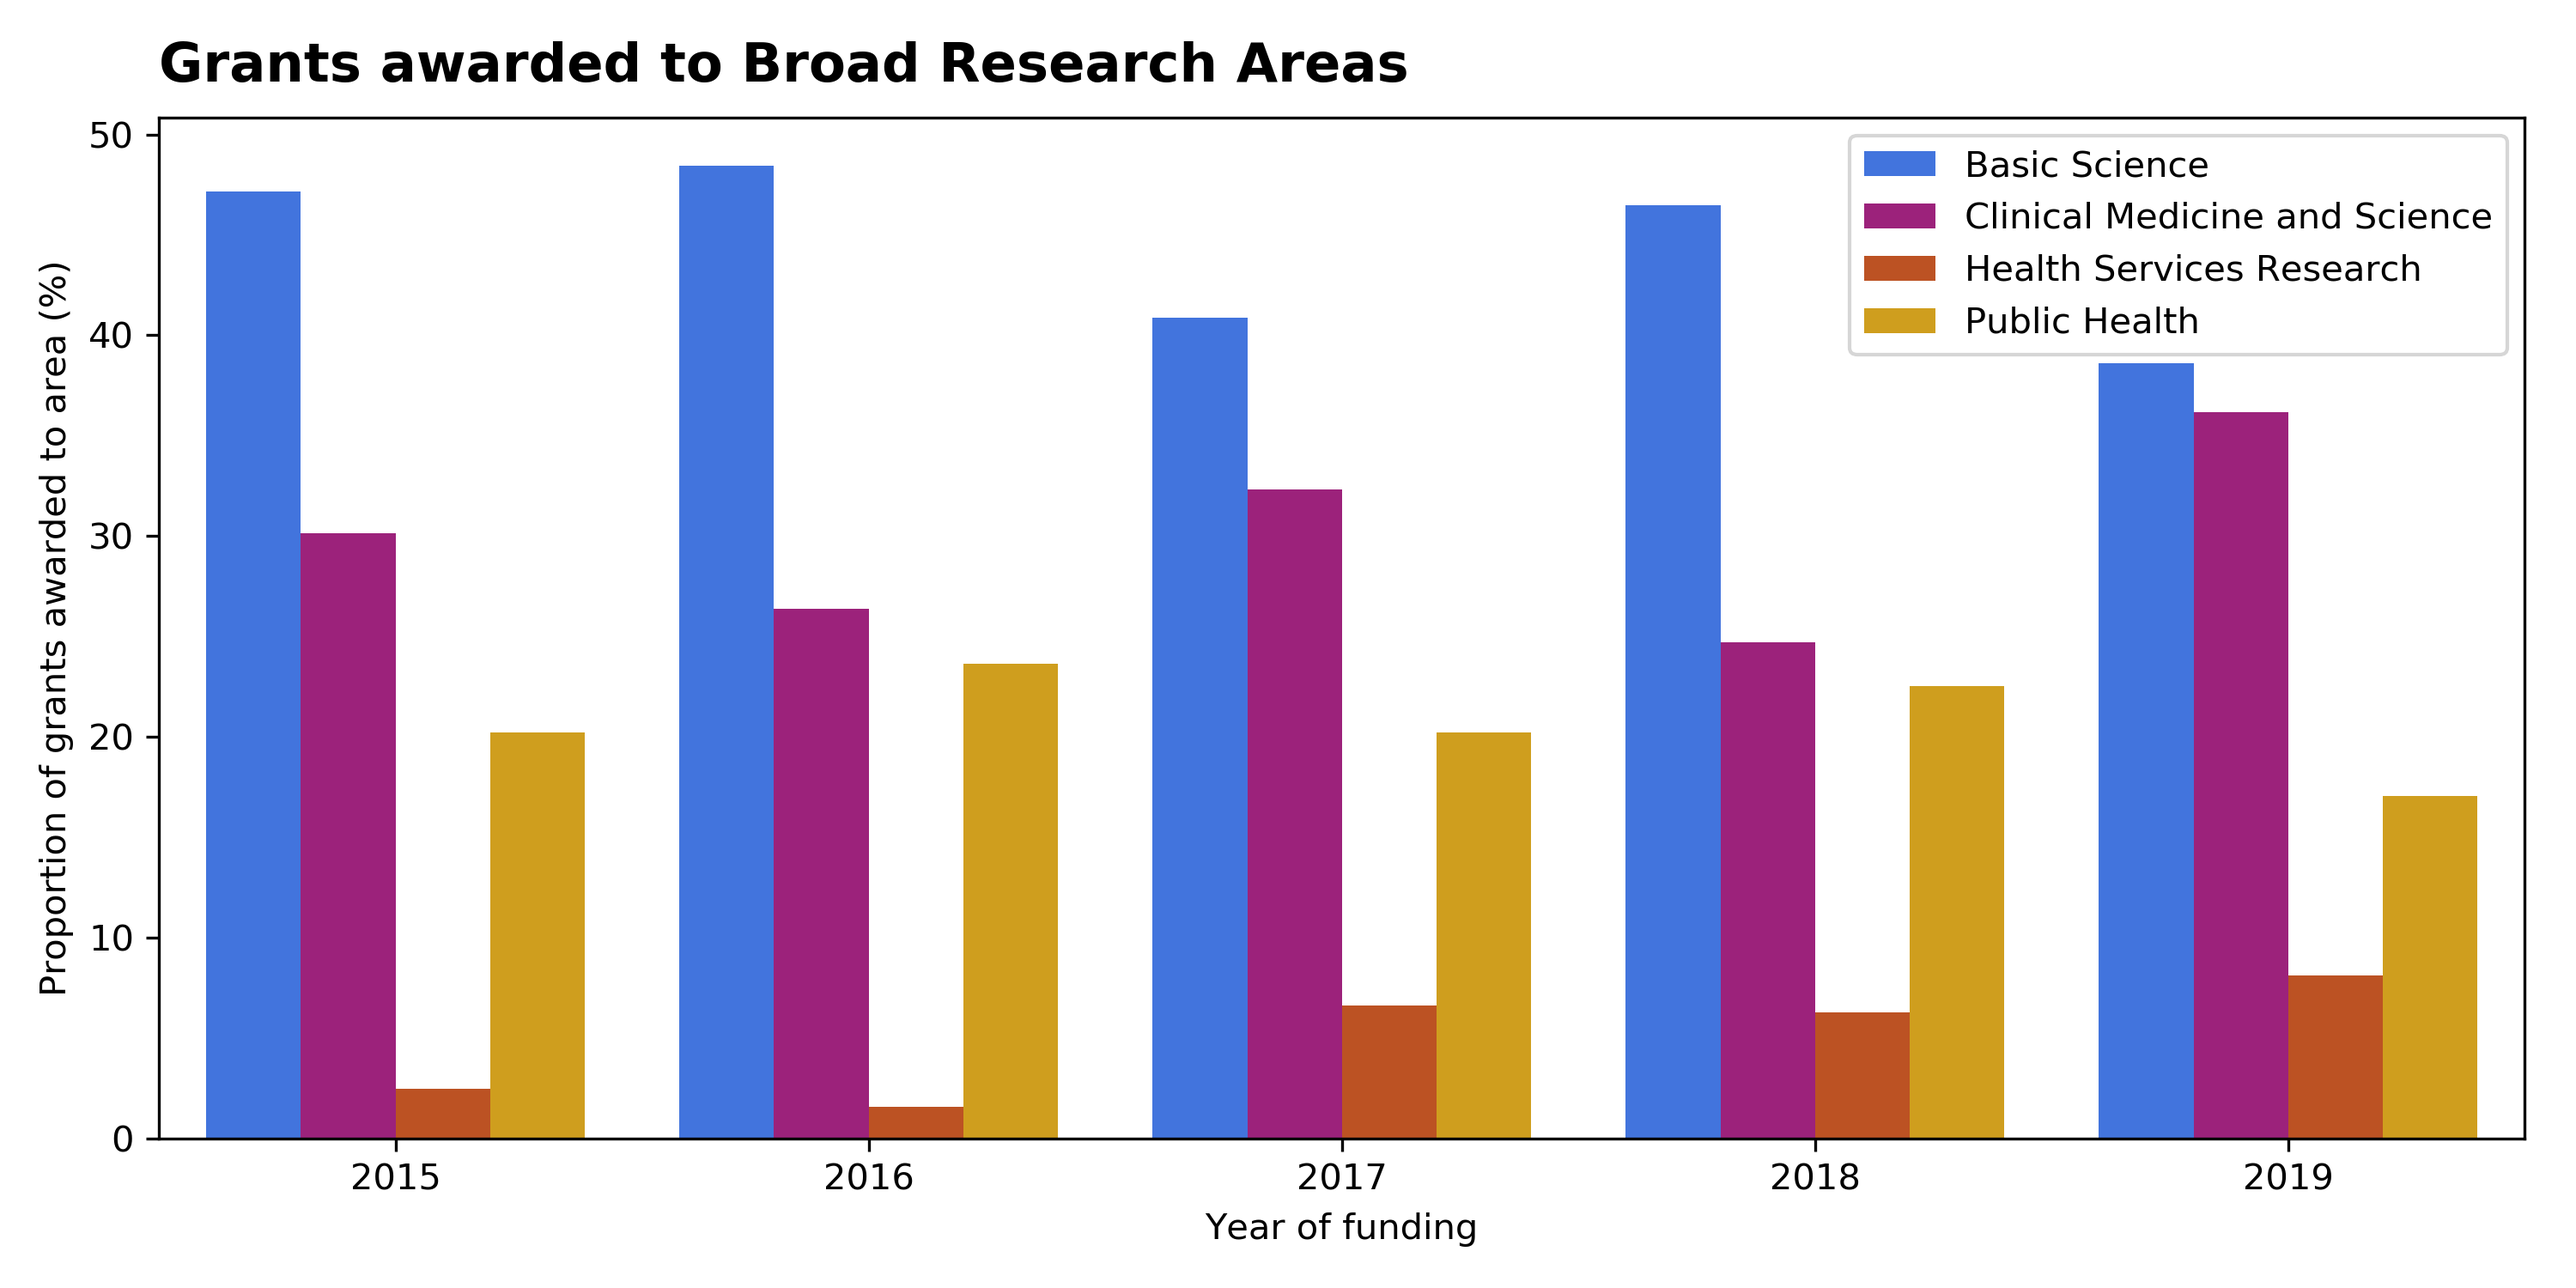
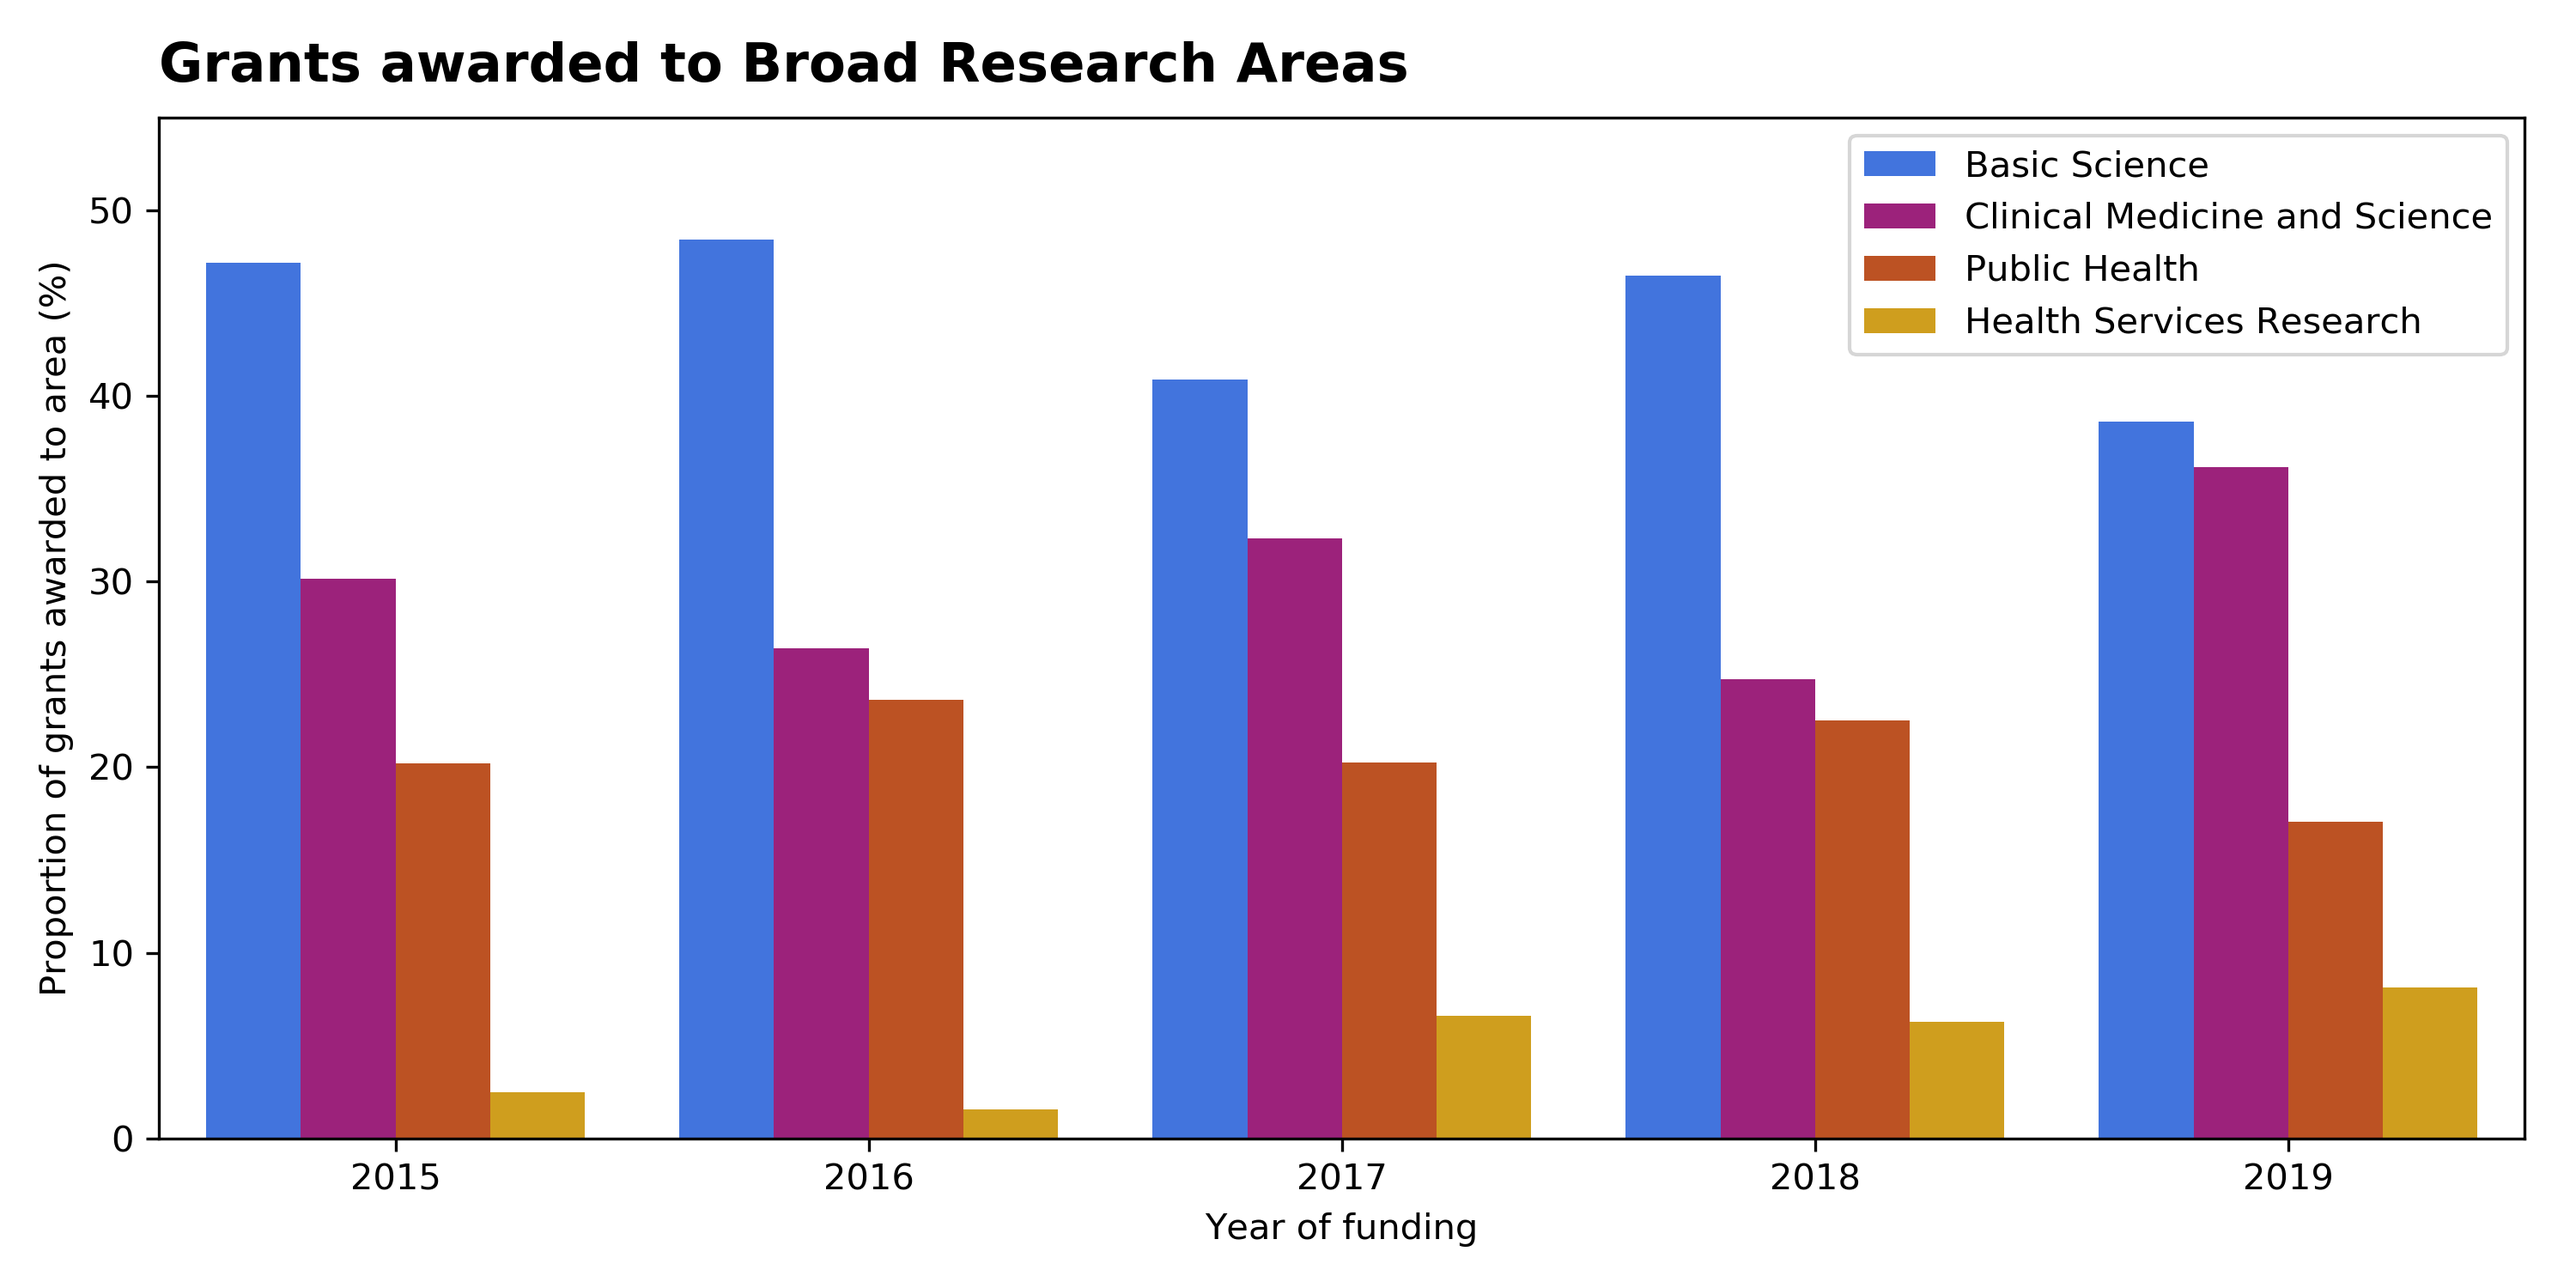
Fixed errors with 2015, 2016 hue

diff --git a/analysis_scripts/plot_research_area.py b/analysis_scripts/plot_research_area.py
@@ -41,6 +41,9 @@ for_plotting[numeric_cols] = for_plotting[numeric_cols].astype(float)
 year_dict = {2015: 0, 2016: 1, 2017: 2, 2018: 3, 2019: 4}
 for_plotting['Year_num'] = for_plotting['Year'].map(year_dict)
 
+hue_order = {'Basic Science':1, 'Clinical Medicine and Science':2, 'Public Health':3, 'Health Services Research':4}
+
+for_plotting['hue_order'] = for_plotting['Broad Research Area'].map(hue_order)
 
 for_plotting.groupby(['Year']).sum() # Check 100% accounted for each year
 
@@ -51,18 +54,19 @@ sns.palplot(col_pal)
 col_pal = ['#4b6aab', '#b75b9e', '#d8774c', '#f1c75b']
 col_pal = ['#286bf7', '#b00e84', '#d64809', '#edab00']
 
-order = ['Basic Science', 'Clinical Medicine and Science', 'Health Services Research', 'Public Health']
 
 fig, ax = plt.subplots(figsize=(10, 5))
 sns.barplot(x='Year_num',  y='proportion', data=for_plotting,
-            hue='Broad Research Area', ax=ax, palette=col_pal, hue_order=order)
+            hue='hue_order', ax=ax, palette=col_pal)
 # Fix all the adjusted elements
-plt.legend(loc='upper right')
+handles, labels = ax.get_legend_handles_labels()
+plt.legend(handles=handles, loc='upper right', labels=list(hue_order.keys()))
 ax.set_xlabel('Year of funding')
 ax.set_ylabel('Proportion of grants awarded to area (%)')
 plt.xticks(np.arange(0, 5, 1), labels=list(year_dict.keys()))
 plt.title('Grants awarded to Broad Research Areas', loc='left',
           fontdict={'fontsize': 15, 'fontweight': 'bold'}, pad=10)
+plt.ylim(0, 55)
 plt.tight_layout()
 plt.savefig(f'{image_output}broad_research_area.png', dpi=300)
 plt.show()
